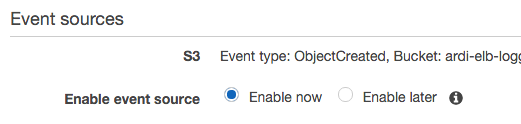
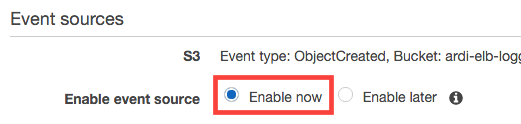
added docs

Changed region(s): [[0.3992, 0.6048, 0.6449, 0.9435]]

diff --git a/README.md b/README.md
@@ -1,2 +1,63 @@
 # le_lambda
-Send log files stored on S3 to Logentries
+Follow the instructions below to send logs stored on AWS S3 to Logentries.
+
+###### Example use cases:
+* Forwarding AWS ELB logs
+  * (make sure to set ELB to write logs every 5 minutes)
+* Forwarding OpenDNS logs
+
+## Obtain log token(s)
+1. Log in to your Logentries account
+2. Add a new [token based log](https://logentries.com/doc/input-token/)
+   * Optional: repeat to add second log for debugging
+
+## Deploy the script on AWS Lambda
+1. Create a new Lambda function
+
+   ![Create Function](https://raw.githubusercontent.com/omgapuppy/le_lambda/master/doc/step1.png)
+
+2. Choose the Python blueprint for S3 objects
+
+   ![Choose Blueprint](https://raw.githubusercontent.com/omgapuppy/le_lambda/master/doc/step2.png)
+
+3. Configure event sources:
+   * Select S3 as event source type
+   * Choose the bucket log files are being stored in
+   * Set event type "Object Created (All)"
+
+   ![Create Function](https://raw.githubusercontent.com/omgapuppy/le_lambda/master/doc/step3.png)
+
+4. Configure function:
+   * Give your function a name
+   * Set runtime to Python 2.7
+
+   ![Create Function](https://raw.githubusercontent.com/omgapuppy/le_lambda/master/doc/step4.png)
+
+5. Edit code:
+   * Select "Edit code inline"
+   * Copy the contents of ```le_lambda.py```
+   * Replace **all** code in the editor window
+   * Replace values of ```log_token``` and ```debug_token``` with tokens obtained earlier.
+
+   ![Create Function](https://raw.githubusercontent.com/omgapuppy/le_lambda/master/doc/step5.png)
+
+6. Lambda function handler and role
+   * Leave the "Handler" value to default
+   * Create a new S3 execution role (your IAM user must have sufficient permissions to create & assign new roles)
+
+   ![Create Function](https://raw.githubusercontent.com/omgapuppy/le_lambda/master/doc/step6.png)
+
+7. Allocate resources:
+   * Set memory to 1536 MB (script only runs for seconds at a time)
+   * Set timeout to a high value, just below of log file creation frequency
+     *  Below example is configured for ELB logs written every 5 minutes
+
+  ![Create Function](https://raw.githubusercontent.com/omgapuppy/le_lambda/master/doc/step7.png)
+
+8. Enable function:
+   * Select "Enable now"
+   * Click "Create function"
+
+   ![Create Function](https://raw.githubusercontent.com/omgapuppy/le_lambda/master/doc/step8.png)
+   
+   ![Create Function](https://raw.githubusercontent.com/omgapuppy/le_lambda/master/doc/step9.png)
